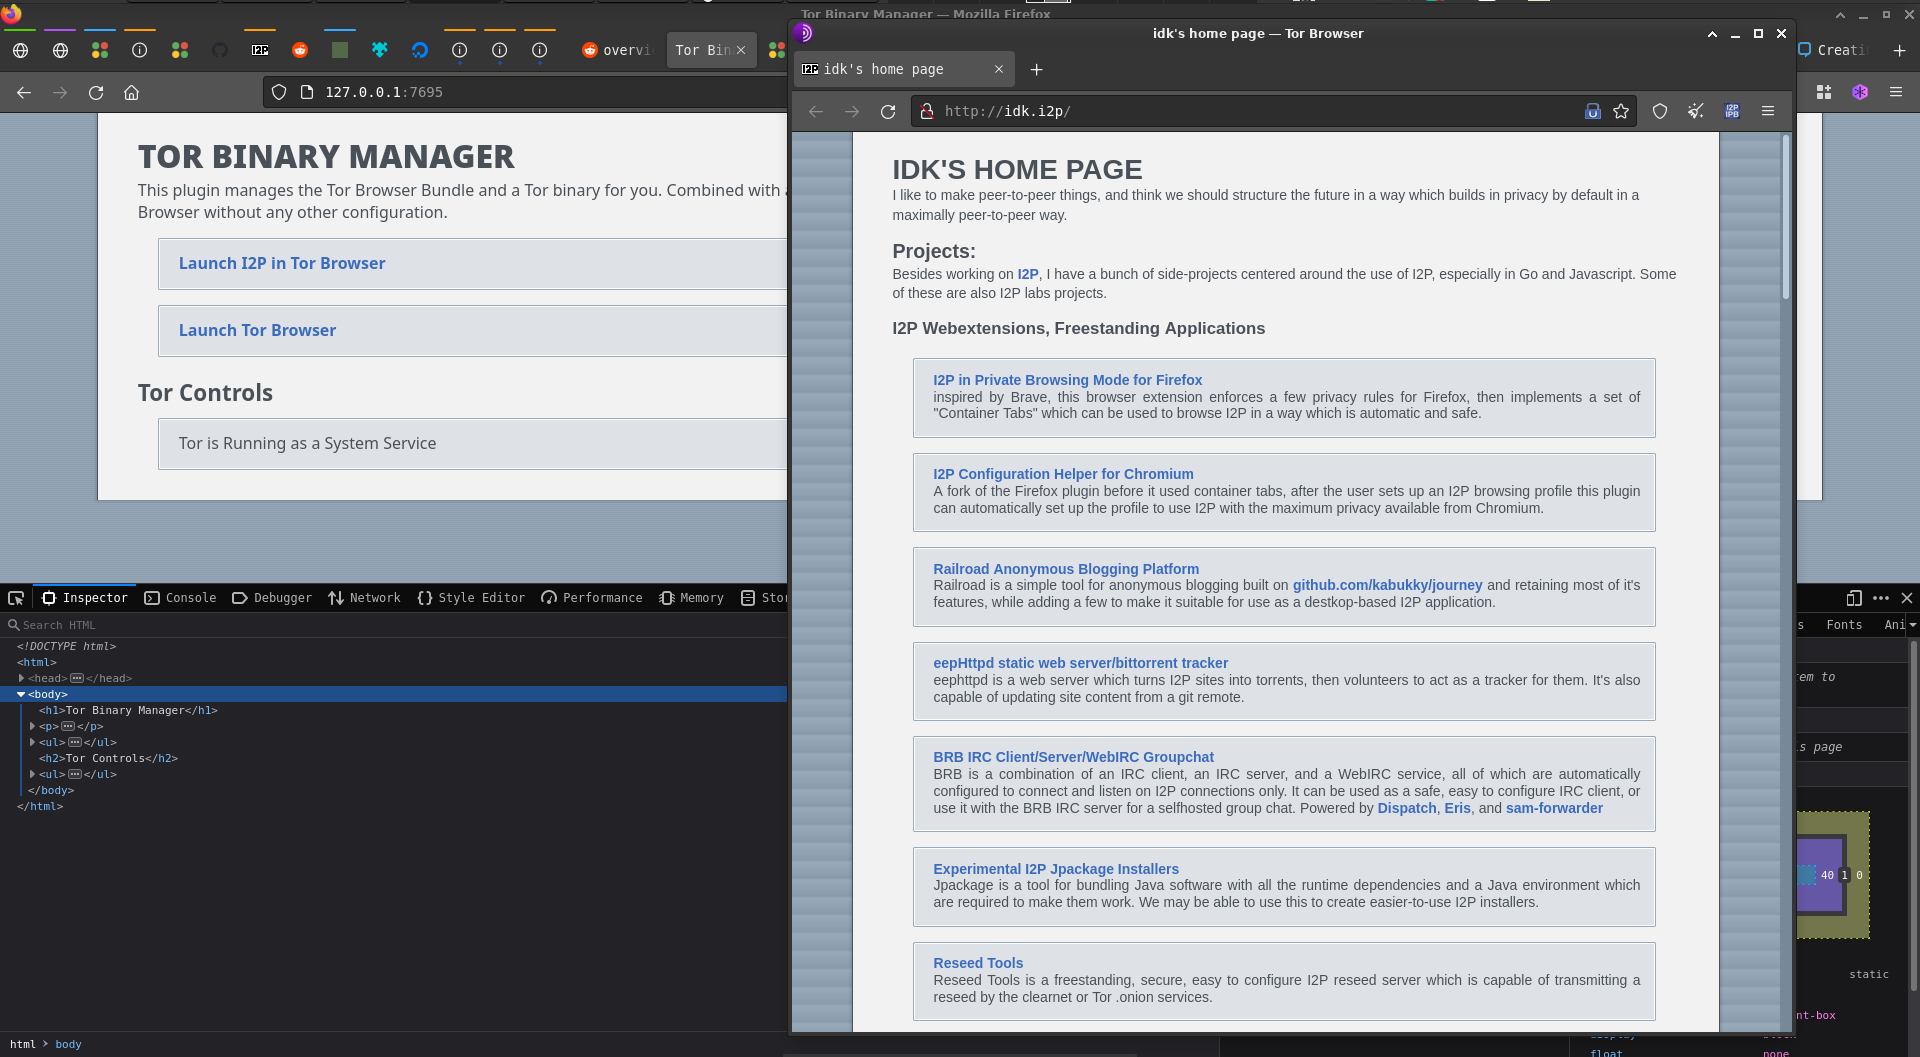
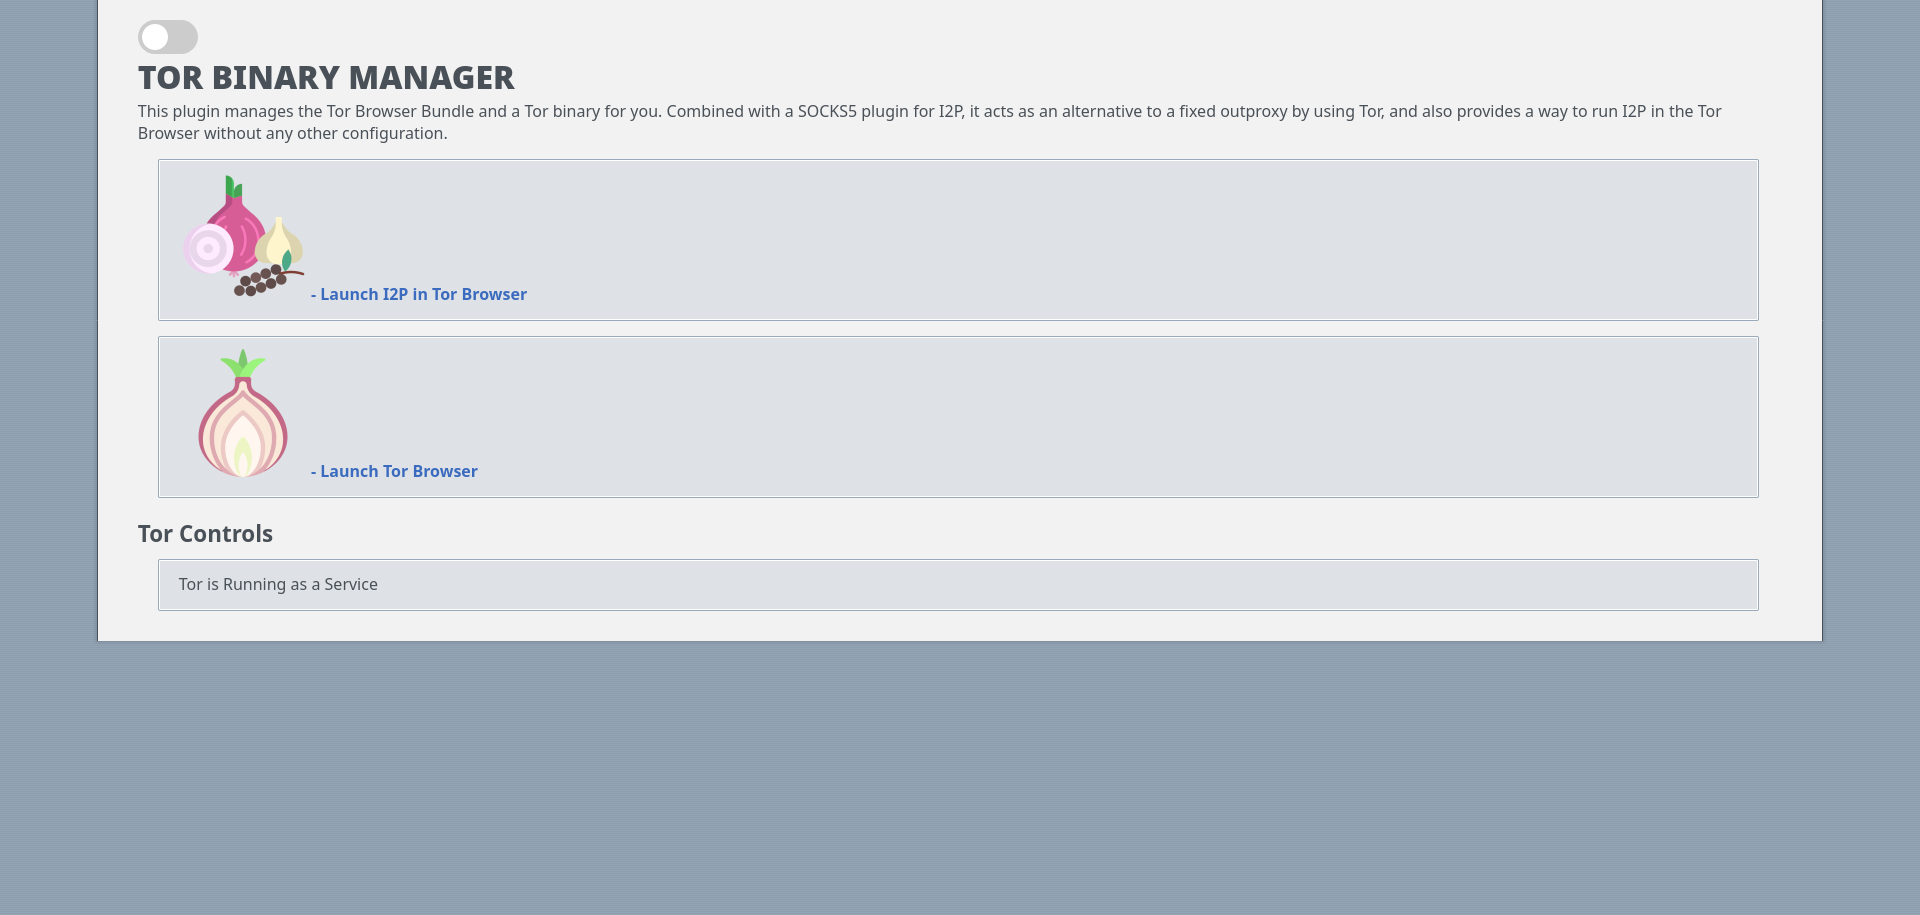
Update screenshots

diff --git a/index.html b/index.html
@@ -34,7 +34,7 @@
 <p>Linux: Usable, most things work. Windows: Unstable, mostly usable, does not work in some important cirumstances, cannot run from a flash drive OSX: Unstable, untested, not usable, WIP.</p>
 <p>Other systems are not targeted and should use a Tor binary built from source, provided by TPO or, their prefered package management system and not this plugin. The plugin will not start a Tor instance if a SOCKS proxy is open on port 9050.</p>
 <figure>
-<img src="screenshot.png" alt="" /><figcaption>Screenshot</figcaption>
+<img src="screenshot-i2pbrowser.png" alt="" /><figcaption>Screenshot</figcaption>
 </figure>
 <h3 id="primary-goals">Primary Goals</h3>
 <ol type="1">
@@ -93,5 +93,10 @@
 <li>https://github.com/whonix/tb-updater</li>
 </ul>
 <p><a href="https://www.flaticon.com/free-icons/garlic" title="garlic icons">Garlic icons created by Icongeek26 - Flaticon</a> <a href="https://www.flaticon.com/free-icons/onion" title="onion icons">Onion icons created by Freepik - Flaticon</a></p>
+<h3 id="more-screenshots">More Screenshots:</h3>
+<ul>
+<li><img src="screenshot.png" title="fig:" alt="Screenshot" /></li>
+<li><img src="screenshot-dark.png" title="fig:" alt="Screenshot" /></li>
+</ul>
 </body>
 </html>

diff --git a/README.md b/README.md
@@ -42,7 +42,7 @@ Other systems are not targeted and should use a Tor binary built from source,
 provided by TPO or, their prefered package management system and not this plugin.
 The plugin will not start a Tor instance if a SOCKS proxy is open on port 9050.
 
-![Screenshot](screenshot.png)
+![Screenshot](screenshot-i2pbrowser.png)
 
 ### Primary Goals
 
@@ -78,3 +78,8 @@ The plugin will not start a Tor instance if a SOCKS proxy is open on port 9050.
 
 <a href="https://www.flaticon.com/free-icons/garlic" title="garlic icons">Garlic icons created by Icongeek26 - Flaticon</a>
 <a href="https://www.flaticon.com/free-icons/onion" title="onion icons">Onion icons created by Freepik - Flaticon</a>
+
+### More Screenshots:
+
+- ![Screenshot](screenshot.png)
+- ![Screenshot](screenshot-dark.png)
